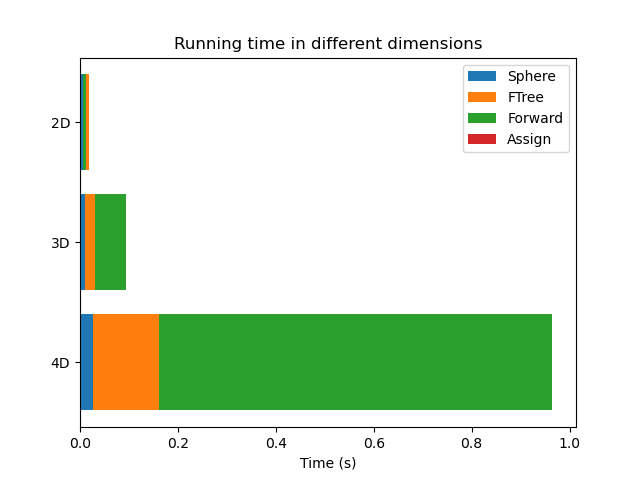
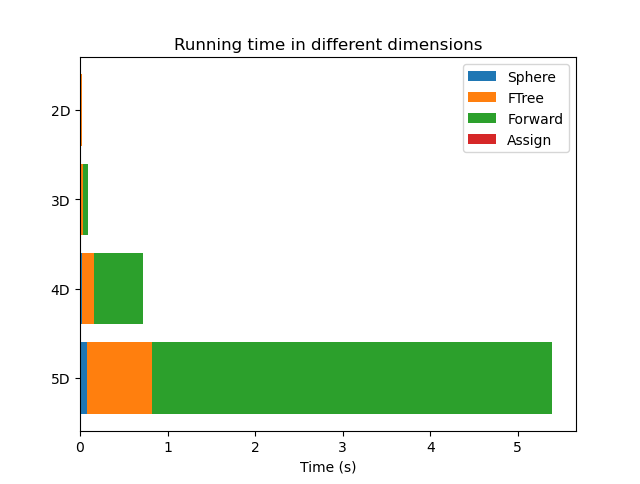
Made code faster by improving implementation

diff --git a/min_energy_path/neb.py b/min_energy_path/neb.py
@@ -23,19 +23,23 @@ def plot_paths_and_tangents(path, tangent, scale=5, width=0.025):
     plt.show()
 
 
-def neb(path_guess, mix_params, n_iterations=3000, k=1., time_step=1.e-2):
+def neb(path_guess, mix_params, force_cutoff=10**-5, n_max_iterations=8000, k=1., time_step=1.e-2, return_force_history=False):
     """
     Performs the NEB algorithm
     :param np.ndarray path_guess:
         Matrix (d dimensions, n points) of the points on the initial path guess
     :param mix_params:
         The generated dictionary of gaussian mix params
-    :param n_iterations:
+    :param force_cutoff:
+        If the force's L2 norm is below this cutoff then the path quits
+    :param n_max_iterations:
         Number of iterations to perform on the path
     :param k:
         The spring force component
     :param time_step:
         The size of the step to take during an interation
+    :param return_force_history:
+        If True returns the force L2 norm for each iteration
     :return:
     """
     logger.info('Starting neb run')
@@ -45,9 +49,11 @@ def neb(path_guess, mix_params, n_iterations=3000, k=1., time_step=1.e-2):
     velocity = np.zeros((path.shape[0], path.shape[1]-2))
     old_force = np.zeros_like(velocity)
 
+    force_history = []
+
     tangents = np.zeros((path.shape[0], path.shape[1]-2))
 
-    for i in range(n_iterations):
+    for i in range(n_max_iterations):
         # Calculate the energy at each point
         coords_transformed = gf.transform_coords(path, mix_params)
         field_strength = gf._field_strength(coords_transformed, mix_params)
@@ -101,6 +107,14 @@ def neb(path_guess, mix_params, n_iterations=3000, k=1., time_step=1.e-2):
 
         # Apply forces using gradient
         force = spring_component - orth_grad_component
+        force_l2 = scila.norm(force)
+        force_history.append(force_l2)
+        if force_l2 < force_cutoff:
+            logger.info(f'Finished NEB from force cutoff after {i+1} iterations')
+            if return_force_history:
+                return path, force_history
+            return path
+
         force_velocity = velocity * force
         if np.sum(force_velocity) > 0:
             velocity = force_velocity * force / scila.norm(force)**2
@@ -112,10 +126,14 @@ def neb(path_guess, mix_params, n_iterations=3000, k=1., time_step=1.e-2):
 
         old_force = force
 
+    logger.info(f'Finished NEB from max_iterations after {n_max_iterations} iterations')
+
+    if return_force_history:
+        return path, force_history
     return path
 
 
-def neb_mep(mepath_info, points_info, mix_params, n_spanning_point_gap=3, n_iterations=3000, k=1., time_step=1.e-2):
+def neb_mep(mepath_info, points_info, mix_params, n_spanning_point_gap=3, force_cutoff=1e-6, n_max_iterations=3000, k=1., time_step=1.e-2):
     """
     Performs the NEB algorithm on the MEP generated path
     :param mepath_info:
@@ -126,7 +144,9 @@ def neb_mep(mepath_info, points_info, mix_params, n_spanning_point_gap=3, n_iter
         The number of NEB points to span the MEP point gap
     :param mix_params:
         The generated dictionary of gaussian mix params
-    :param n_iterations:
+    :param force_cutoff:
+        If the force's L2 norm is below this cutoff then the path quits
+    :param n_max_iterations:
         Number of iterations to perform on the path
     :param k:
         The spring force component
@@ -174,18 +194,28 @@ def neb_mep(mepath_info, points_info, mix_params, n_spanning_point_gap=3, n_iter
 
     neb_start_path = np.concatenate(neb_start_path, axis=1)
 
-    return neb(neb_start_path, mix_params, n_iterations, k, time_step)
+    return neb(neb_start_path, mix_params, force_cutoff, n_max_iterations, k, time_step)
 
 
 if __name__ == '__main__':
-    from min_energy_path.gaussian_params import even_simplerer
+    from min_energy_path import gaussian_params
     from min_energy_path.gaussian_field import plot_gaussian
     import matplotlib.pyplot as plt
 
-    _mix_params = even_simplerer()
+    logging.basicConfig(level=logging.INFO)
+
+    _mix_params = gaussian_params.starter()
     old_path = np.linspace(_mix_params['minima_coords'][:, 0], _mix_params['minima_coords'][:, 1], 15, axis=-1)
-    new_path = neb(old_path, _mix_params)
+    new_path, force_history = neb(old_path, _mix_params, n_max_iterations=10**5, return_force_history=True)
 
     plot_gaussian(_mix_params)
     plt.plot(*old_path, 'bo-')
     plt.plot(*new_path, 'ro-')
+    plt.show()
+
+    fig, ax = plt.subplots()
+    ax.semilogy(force_history)
+    ax.set_xlabel('Iterations')
+    ax.set_ylabel('Frob norm of force')
+    ax.set_title('NEB change of force over iterations')
+    fig.show()

diff --git a/min_energy_path/gaussian_field.py b/min_energy_path/gaussian_field.py
@@ -16,8 +16,6 @@ Specification for mix_params, a dictionary
     Vector or tuple [lower bound, upper bound] - Optional
 """
 import numpy as np
-import matplotlib.pyplot as plt
-import matplotlib as mpl
 import scipy.linalg as scila
 import functools
 
@@ -154,7 +152,7 @@ def gaussian_field_for_better_quality(from_coord, to_coords, to_coord_indices, m
     midpoint_strengths = gaussian_field(midpoints, mix_params)
     to_strengths = gaussian_field(to_coords, mix_params)
 
-    return directions_length, to_coord_indices, from_strength, midpoint_strengths, to_strengths
+    return directions_length, to_coord_indices, from_strength, midpoint_strengths, to_strengths, close_enough
 
 
 def get_mix_params_info_decorator(n_iterations=1000, learning_rate=0.01, n_linspace=25):
@@ -181,6 +179,8 @@ def get_mix_params_info_decorator(n_iterations=1000, learning_rate=0.01, n_linsp
 
 
 def plot_gaussian(mix_params):
+    import matplotlib.pyplot as plt
+    import matplotlib as mpl
     # Plot the scalar field
     # First create an x, y grid
     x = np.linspace(*mix_params['xbounds'], 100)
@@ -205,17 +205,3 @@ def plot_gaussian(mix_params):
     plt.pcolormesh(x_grid, y_grid, z_grid, cmap=cmap)
     fig.colorbar(sm)
     ax.axis('equal')
-
-
-def get_gaussian_slice(xstep, ystep, zstep, basis, mix_params):
-    x = np.arange(*xbounds, xstep)
-    y = np.arange(*ybounds, ystep)
-    z = np.arange(*zbounds, zstep)
-    X, Y, Z = np.meshgrid(x, y, z)
-    coords = np.array([X.flatten(), Y.flatten(), Z.flatten])
-    F = gaussian_field(basis @ coords, mix_mag, mix_sig, mix_centre).reshape(X.shape)
-    # This function is unfinished
-    # It aims to animate a field in 3D
-
-
-

diff --git a/min_energy_path/points_sphere.py b/min_energy_path/points_sphere.py
@@ -1,7 +1,5 @@
 import numpy as np
 import scipy.linalg as scila
-import matplotlib.pyplot as plt
-from mpl_toolkits.mplot3d import Axes3D
 import warnings
 import logging
 
@@ -193,16 +191,19 @@ def get_nearby_sphere_indexes(center_index, n_around, points_info,
             for dim_index in c_unraveled_idx[1:]
         )
     ]
-    return [
-        sphere_index
-        for sphere_index in indices_to_scan.flatten()
-        if sphere_index >= 0
-        and (return_center or sphere_index != center_index)
-        and (return_lower or sphere_index >= center_index)
-    ]
+    if return_lower and not return_center:
+        return indices_to_scan[~np.isin(indices_to_scan, [-1, center_index])]
+    if return_lower and return_center:
+        return indices_to_scan[indices_to_scan >= 0]
+    if not return_lower and return_center:
+        return indices_to_scan[indices_to_scan >= center_index]
+    if not return_lower and not return_center:
+        return indices_to_scan[indices_to_scan > center_index]
 
 
 if __name__ == "__main__":
+    import matplotlib.pyplot as plt
+    from mpl_toolkits.mplot3d import Axes3D
     # Plot a 2D grid with a number of different options
 
     # fig = plt.figure()

diff --git a/min_energy_path/path_helpers.py b/min_energy_path/path_helpers.py
@@ -233,8 +233,10 @@ def generate_transition_qualities(points_info, mix_params,
                 for from_dim_pos in from_pos[1:]
             )
         ]
-        to_calculate_idx = to_calculate_idx[~np.isin(to_calculate_idx, [-1, fromm])]
-        directions_length, to_calculate_idx, from_strength, midpoint_strengths, to_strengths = \
+        out = np.zeros_like(to_calculate_idx)
+        mask = ~np.isin(to_calculate_idx, [-1, fromm])
+        to_calculate_idx = to_calculate_idx[mask]
+        directions_length, to_calculate_idx, from_strength, midpoint_strengths, to_strengths, close_enough = \
             gaussian_field_for_better_quality(
                 points_info['sphere'][:, [fromm]], points_info['sphere'][:, to_calculate_idx], to_calculate_idx,
                 mix_params, length_cutoff, points_info['point_distance']
@@ -250,6 +252,8 @@ def generate_transition_qualities(points_info, mix_params,
                 / mix_params['max_line_strength_diff']
             )
         )
+        mask[mask] = close_enough
+        out[mask] = to_qualities
         transition_qualities[fromm] = dict(zip(to_calculate_idx, to_qualities))
 
     return transition_qualities

diff --git a/min_energy_path/mep.py b/min_energy_path/mep.py
@@ -54,7 +54,7 @@ for param_choice in [mix_params.starter]:  # , mix_params.starter, mix_params.co
     for i, path_info in enumerate(good_paths_info):
         print(i, path_info['value'])
         lines = plt.plot(*path_info['path'], label=f'q{i}={path_info["value"]}')
-        neb_path_1 = neb.neb_mep(path_info, POINTS_INFO, MIX_PARAMS, k=2., n_iterations=10000)
+        neb_path_1 = neb.neb_mep(path_info, POINTS_INFO, MIX_PARAMS, k=2., n_max_iterations=10000)
         plt.plot(*neb_path_1, c=lines[0].get_color(), dashes=(2, 2))
 
     # Get the NEB smoothed best path

diff --git a/min_energy_path/mep3d.py b/min_energy_path/mep3d.py
@@ -87,7 +87,7 @@ for i in range(3):
 for i, path_info in enumerate(best_paths_info):
     lines = ax.plot(*path_info['path'], label=f'{i}')
     print(i, path_info['value'])
-    neb_path = neb.neb_mep(path_info, POINTS_INFO, MIX_PARAMS, n_iterations=5000)
+    neb_path = neb.neb_mep(path_info, POINTS_INFO, MIX_PARAMS, n_max_iterations=5000)
     plt.plot(*neb_path, c=lines[0].get_color(), dashes=(2, 2))
 
 

diff --git a/min_energy_path/mepNd.py b/min_energy_path/mepNd.py
@@ -13,7 +13,7 @@ logging.basicConfig(level=logging.INFO)
 N_SPANNING_GAP = 6
 
 
-dims = list(range(2, 5))
+dims = list(range(2, 6))
 labels = [f'{dim}D' for dim in dims]
 label_pos = list(range(len(labels)))
 times = []

diff --git a/min_energy_path/gaussian_params.py b/min_energy_path/gaussian_params.py
@@ -25,7 +25,7 @@ def starter():
         [0, 0],
         [2, 1],
         [3, -1.1],
-        [4, 0],
+        [4, 0.1],
         [5, 0]
     ]).T
     return {
